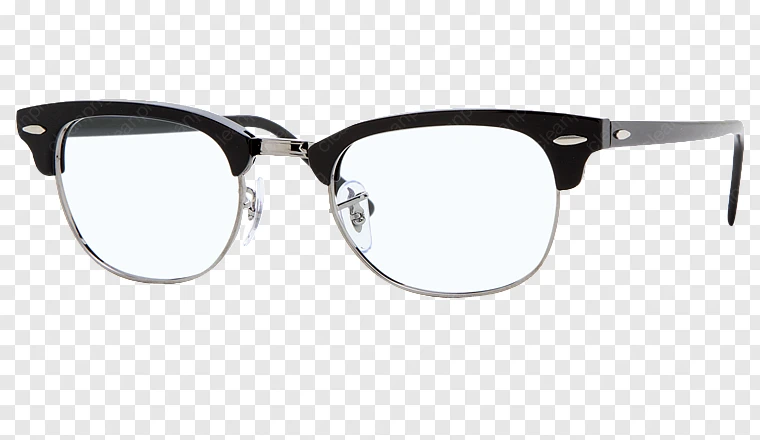
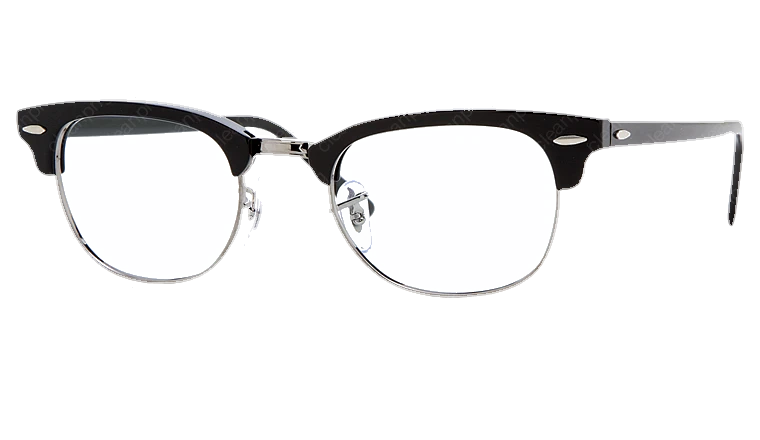
Corrigir imagem do produto e transparência do provador virtual
- Substituir SVG azul da galeria por foto real do Clubmaster
- Remover fundo branco da imagem com flood-fill (apenas background externo)
- Tornar lentes semi-transparentes para ver os olhos no provador

diff --git a/produto.html b/produto.html
@@ -52,8 +52,7 @@
     /* GALLERY */
     .gallery{display:flex;flex-direction:column;gap:16px}
     .gallery-main{aspect-ratio:1;background:linear-gradient(135deg,var(--cream),rgba(24,88,200,.05));border-radius:var(--r);border:1px solid var(--gray-lt);display:flex;align-items:center;justify-content:center;position:relative;overflow:hidden}
-    .gallery-main svg{width:100%;height:100%;max-width:400px;max-height:400px;animation:pulse 3s ease-in-out infinite}
-    @keyframes pulse{0%,100%{opacity:1;transform:scale(1)} 50%{opacity:.9;transform:scale(1.02)}}
+    .gallery-main img{width:90%;height:auto;object-fit:contain}
 
     .gallery-thumbs{display:flex;gap:12px}
     .thumb{width:80px;height:80px;border-radius:8px;background:var(--cream);border:2px solid var(--gray-lt);cursor:pointer;display:flex;align-items:center;justify-content:center;transition:all .3s;position:relative}
@@ -300,7 +299,7 @@
     <!-- GALLERY -->
     <div class="gallery">
       <div class="gallery-main">
-        <svg viewBox="0 0 280 120" fill="none"><rect x="10" y="18" width="110" height="80" rx="24" stroke="#1858C8" stroke-width="7" fill="rgba(24,88,200,0.07)"/><rect x="160" y="18" width="110" height="80" rx="24" stroke="#1858C8" stroke-width="7" fill="rgba(24,88,200,0.07)"/><path d="M120 58 C126 50 134 46 140 46 C146 46 154 50 160 58" stroke="#1858C8" stroke-width="7" fill="none" stroke-linecap="round"/><path d="M10 38 L0 30" stroke="#1858C8" stroke-width="7" stroke-linecap="round"/><path d="M270 38 L280 30" stroke="#1858C8" stroke-width="7" stroke-linecap="round"/></svg>
+        <img src="glasses-tryon.png" alt="Ray-Ban RB5154 Clubmaster" style="width:90%;height:auto;object-fit:contain"/>
       </div>
       <div class="gallery-thumbs">
         <div class="thumb active"></div>
